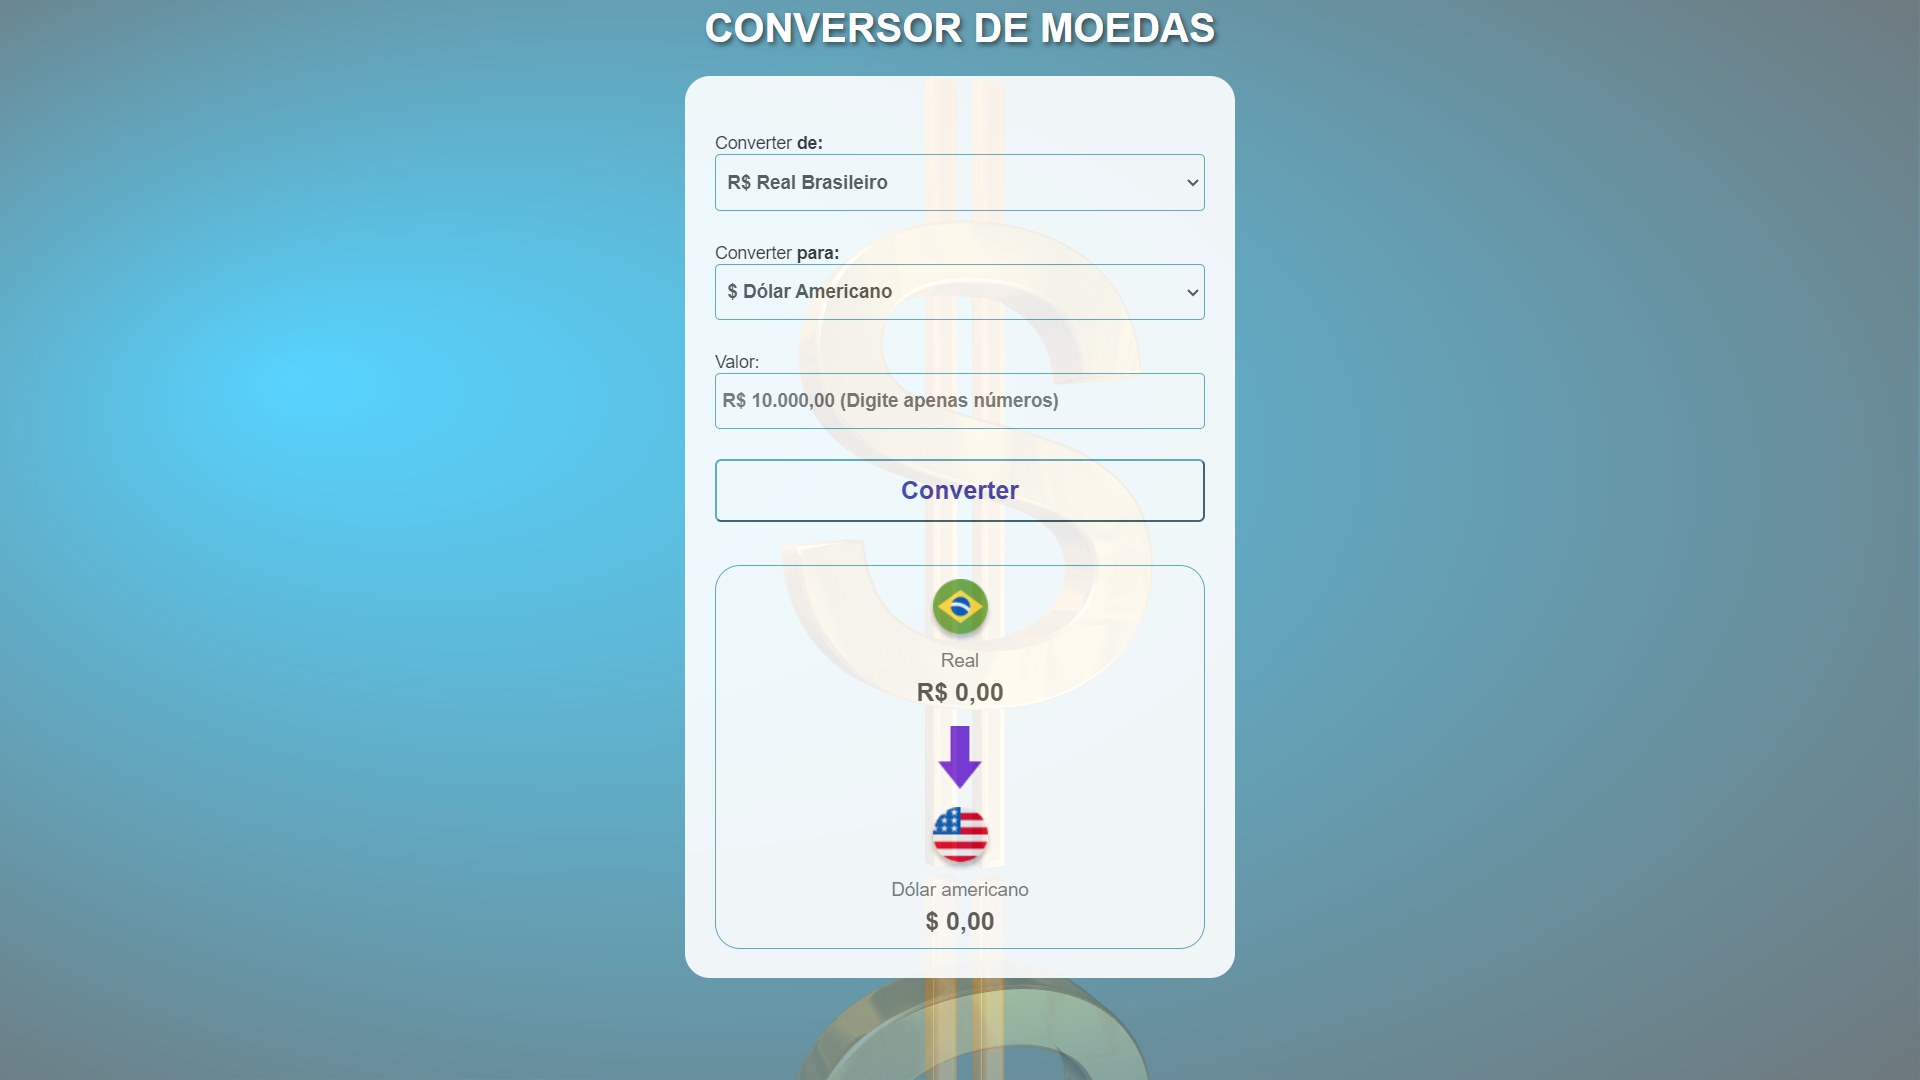
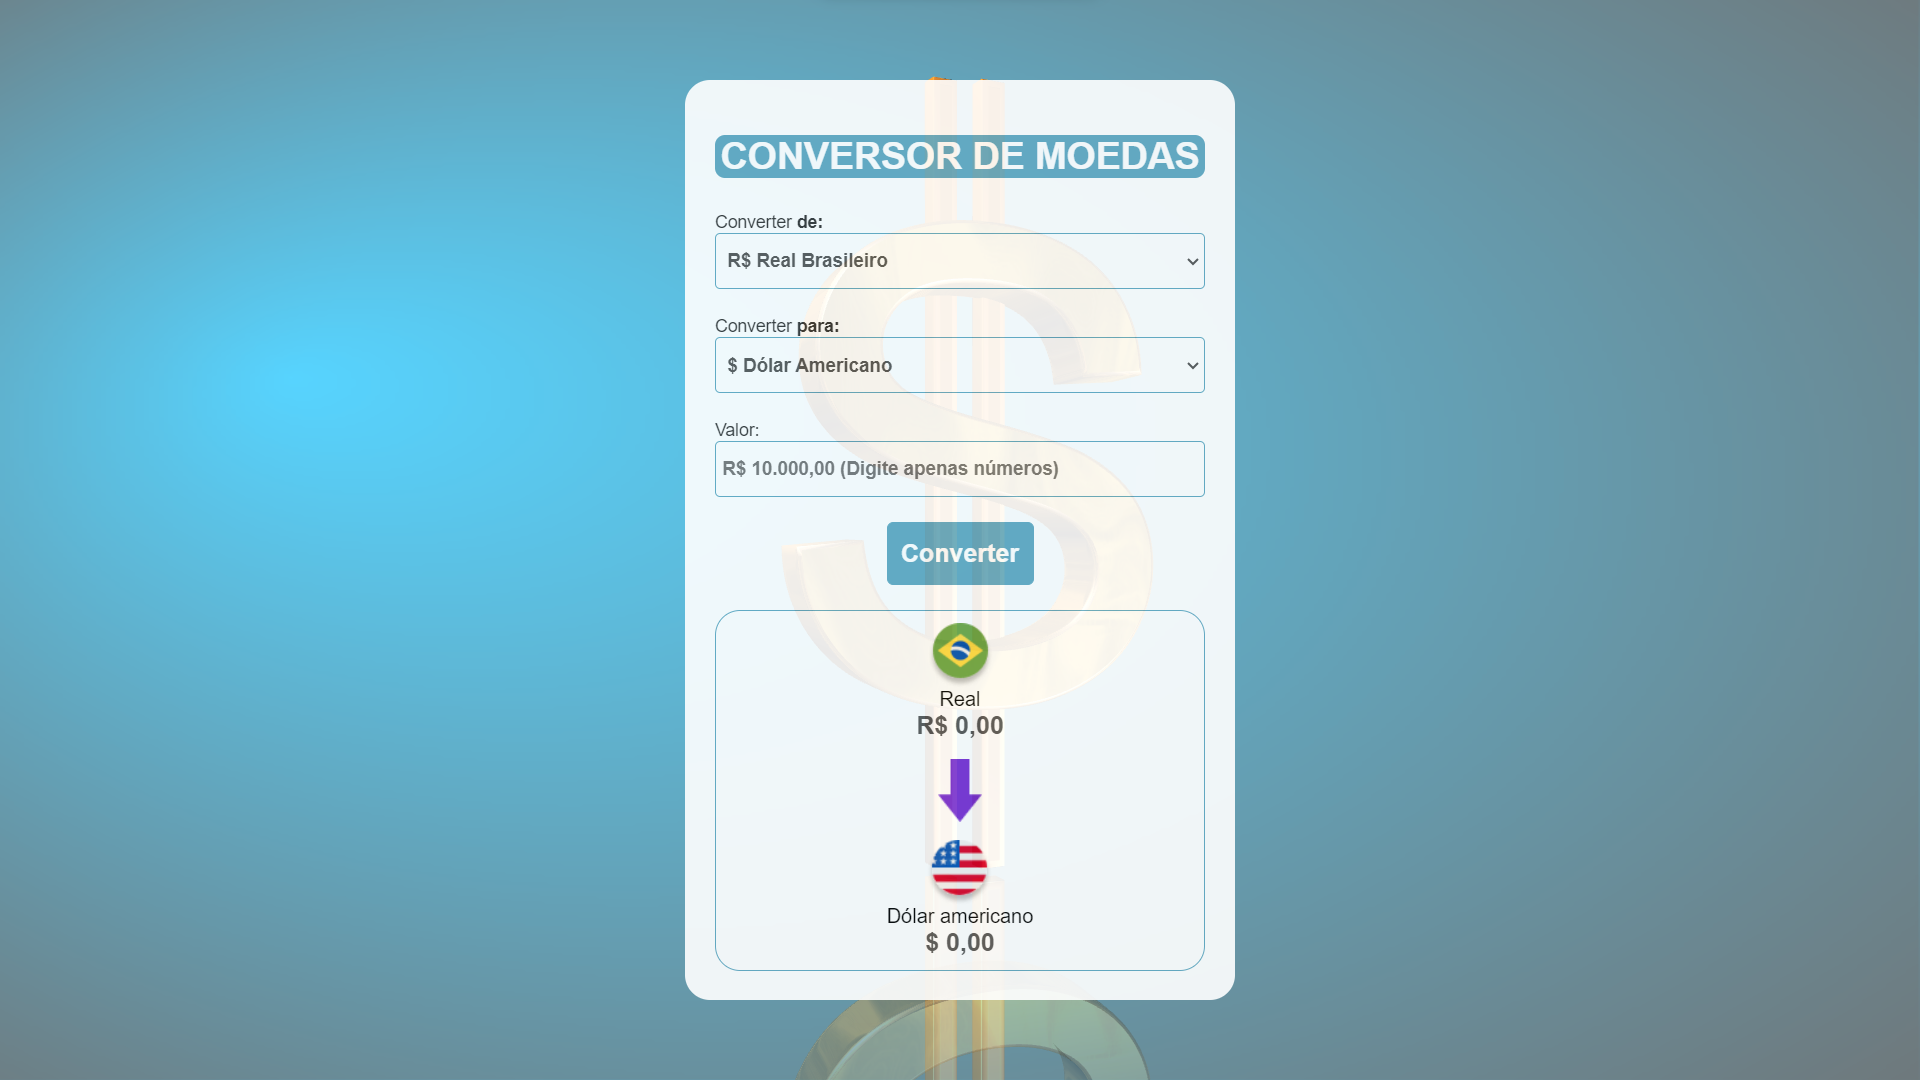
Update

Changed region(s): [[0.3438, 0.1222, 0.6562, 0.9472], [0.3438, 0.0, 0.6562, 0.0917]]

diff --git a/style.css b/style.css
@@ -11,22 +11,29 @@ body {
     background-size: cover;
     background-repeat: no-repeat;
     background-attachment: fixed;
+    background-position: center center;
     z-index: -1;
+    display: flex;
+    justify-content: center;
+    align-items: center;
+    height: 100vh;
 }
 
 h1 {
-    text-align: center; 
-    color: #fff;
-    text-shadow: 2px 2px 4px rgba(0, 0, 0, 0.5);
-    margin-top: 5px;
-    margin-bottom: 20px;
+    border-radius: 8px;
+    font-size: 30px;
+    font-weight: 700;
+    color: #ffffff;
+    text-align: center;
+    margin-bottom: 25px;
+    background-color:#62A9C2;
 }
 
 main {
+    margin: 0 20px;
     width: 440px;
     border-radius: 20px;
     background-color: #FFF;
-    margin: 0 auto 20px;
     padding: 44px 24px 23px;
     opacity: 0.9;
 }
@@ -44,7 +51,7 @@ input {
     background: #FFF;
     height: 45px;
     width: 100%;
-    margin-bottom: 24px;
+    margin-bottom: 20px;
     padding-left: 5px;
     font-size: 15px;
     font-weight: 700;
@@ -53,18 +60,17 @@ input {
 }
 
 button {
+    border: 1px solid #62A9C2;
     border-radius: 5px;
-    background: #ffffff;
-    width: 100%;
+    background: #62A9C2;
+    width: 30%;
+    height: 50px;
     margin: 0 auto;
     display: block;
-    border-color: #62A9C2;
-    height: 50px;
-    color: rgb(64, 64, 171);
+    color: rgb(255, 255, 255);
     font-size: 20px;
     font-weight: 700;
     cursor: pointer;
-
 }
 
 button:hover {
@@ -79,27 +85,19 @@ section {
     border-radius: 20px;
     border: 1px solid #62A9C2;
     width: auto;
-    margin-top: 35px;
+    margin-top: 20px;
     padding: 10px;
     display: flex;
     flex-direction: column;
     align-items: center;
-}
-
-.arrow-img {
-    margin: 15px auto;
+    gap: 15px;
 }
 
 .currency-box {
     display: flex;
     flex-direction: column;
     align-items: center;
-    gap: 5px;
-}
-
-.currency {
-    color: #777;
-    font-size: 15px;
+    justify-content: center;
 }
 
 .currency-value,

diff --git a/index.html b/index.html
@@ -11,8 +11,8 @@
 </head>
 
 <body>
-    <h1>CONVERSOR DE MOEDAS</h1>
     <main>
+        <h1>CONVERSOR DE MOEDAS</h1>
         <label>
             Converter <b>de:</b>
             <select class="convertCurrencySelectDe">
